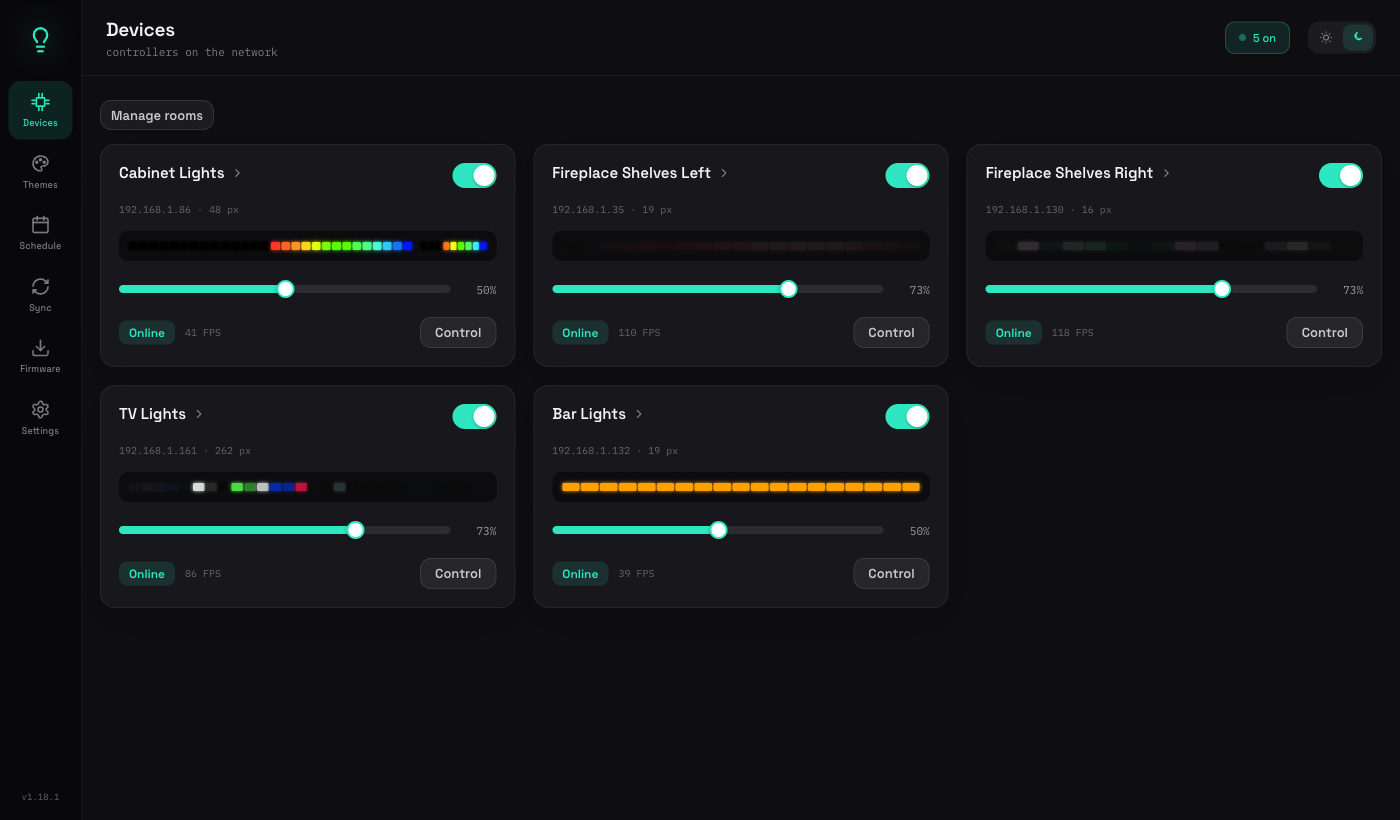
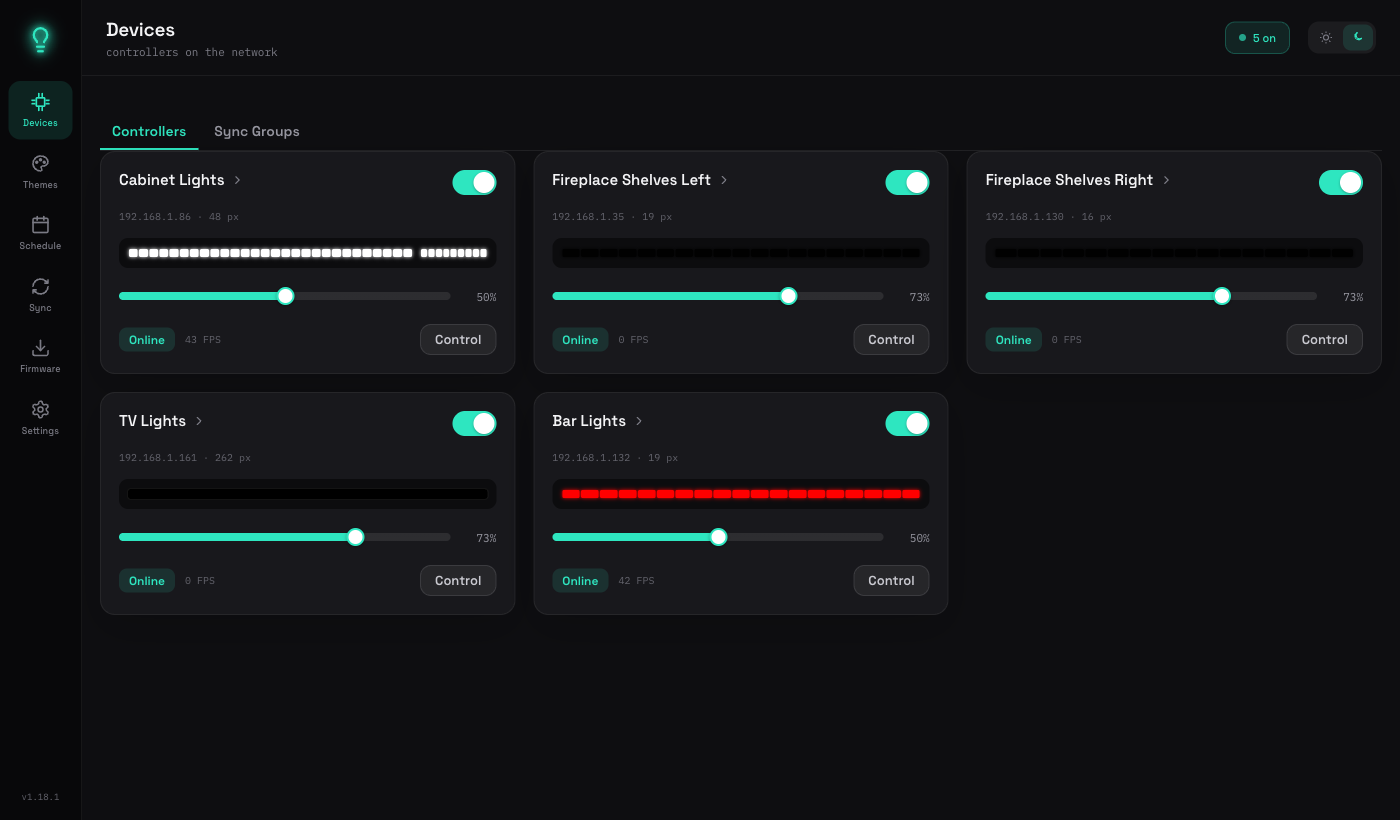
feat(devices): tabbed Controllers | Sync Groups; sync-group control (v2.3.0)
Devices now has two tabs — Controllers (a card per device) and Sync Groups,
where each *active* sync group shows as its own aggregate card (power +
brightness + Control fanned out to its members). Removes the room grouping /
Manage-rooms UI from Devices (components kept in-tree for now, just unwired).

Also:
- MasterBar status pill goes back to the plain '{N} on' / 'All off' count
  instead of showing the active sync group's name (which read as confusing).
- Lightbulb logo now genuinely glows when any controller is on — accent color,
  a soft radial halo, and a layered filament glow — and stays visible in light
  mode via the deeper-accent tokens; dull gray when all off.
- Refresh devices.png (tabbed view) + update the README Devices walkthrough.

Follow-up to the RGBW White fix in the previous commit.

diff --git a/client/src/sections/devices/DevicesSection.tsx b/client/src/sections/devices/DevicesSection.tsx
@@ -1,25 +1,25 @@
 import { useEffect, useMemo, useState } from 'react';
-import type { Controller } from '../../api/client';
+import type { Controller, Target } from '../../api/client';
 import { useLiveStatus } from '../../api/live';
-import { useControllers, useGroups } from '../../api/queries';
+import { useControllers, useSyncGroups } from '../../api/queries';
 import { ControlSurface } from '../../control/ControlSurface';
 import { Button } from '../../components/ui/Button';
 import { Skeleton } from '../../components/ui/Skeleton';
+import { Tabs } from '../../components/ui/Tabs';
 import { DeviceCard } from './DeviceCard';
 import { DeviceDetail } from './DeviceDetail';
-import { RoomGroup } from './RoomGroup';
-import { RoomsManagerModal } from './RoomsManagerModal';
-import { groupControllersByRoom } from './deviceGrouping';
+import { SyncGroupCard } from './SyncGroupCard';
 import { deviceHash, parseDevicesHash, type DeviceTab } from './route';
-import { cachedDeviceName } from '../../lib/deviceNames';
 import './devices.css';
 
 export function DevicesSection() {
   const [route, setRoute] = useState(() => parseDevicesHash(window.location.hash));
   const controllers = useControllers();
-  const groups = useGroups();
-  const [controlId, setControlId] = useState<string | null>(null);
-  const [roomsOpen, setRoomsOpen] = useState(false);
+  const syncGroups = useSyncGroups();
+  const [tab, setTab] = useState<'controllers' | 'sync'>('controllers');
+  // A single target-set drives the Control surface, so both a single device
+  // card and a whole sync group (its members) can open it.
+  const [controlTargets, setControlTargets] = useState<Target[] | null>(null);
 
   useEffect(() => {
     const onHash = () => setRoute(parseDevicesHash(window.location.hash));
@@ -34,17 +34,19 @@ export function DevicesSection() {
   );
   const live = useLiveStatus(liveIds);
 
-  const { rooms, ungrouped } = useMemo(
-    () => groupControllersByRoom(groups.data ?? [], list),
-    [groups.data, list]
-  );
-  const renderCard = (c: Controller) => (
-    <DeviceCard key={c.id} controller={c} live={live.get(c.id)} onControl={setControlId} onOpen={openDetail} />
-  );
-  // Same resolution as DeviceCard so the room manager labels controllers with
-  // their live/friendly name rather than the frozen add-time name.
-  const nameFor = (id: string) =>
-    live.get(id)?.info?.name || cachedDeviceName(id) || list.find((c) => c.id === id)?.name || id;
+  // Active sync groups surface as their own aggregate-control cards, pinned
+  // above the individual devices; members still appear as their own cards too.
+  const activeSyncGroups = useMemo(() => {
+    const byId = new Map(list.map((c) => [c.id, c]));
+    return (syncGroups.data ?? [])
+      .filter((sg) => sg.active)
+      .map((sg) => ({
+        id: sg.id,
+        name: sg.name,
+        members: sg.memberControllerIds.map((id) => byId.get(id)).filter((c): c is Controller => !!c)
+      }))
+      .filter((sg) => sg.members.length > 0);
+  }, [syncGroups.data, list]);
 
   function openDetail(controllerId: string, tab: DeviceTab = 'info') {
     window.location.hash = deviceHash(controllerId, tab);
@@ -85,9 +87,6 @@ export function DevicesSection() {
     <section className="section devices-section">
       <header className="devices-header">
         <h2>Devices</h2>
-        {list.length > 0 && (
-          <Button variant="secondary" size="sm" onClick={() => setRoomsOpen(true)}>Manage rooms</Button>
-        )}
       </header>
       {controllers.isLoading && (
         <div className="devices-grid">
@@ -96,38 +95,62 @@ export function DevicesSection() {
         </div>
       )}
       {controllers.isError && <p role="alert">Could not load controllers.</p>}
-      {!controllers.isLoading && !controllers.isError && list.length === 0 && (
-        <p className="empty-state">
-          No controllers yet — discovery adds them automatically, or add one in Settings.
-        </p>
-      )}
-      {rooms.length === 0 ? (
-        <div className="devices-grid">{list.map(renderCard)}</div>
-      ) : (
-        <div className="devices-rooms">
-          {rooms.map(({ group, controllers: members }) => (
-            <RoomGroup key={group.id} title={group.name} icon={group.icon} count={members.length}>
-              {members.map(renderCard)}
-            </RoomGroup>
-          ))}
-          {ungrouped.length > 0 && (
-            <RoomGroup title="Ungrouped" count={ungrouped.length}>
-              {ungrouped.map(renderCard)}
-            </RoomGroup>
-          )}
-        </div>
-      )}
-      <ControlSurface
-        targets={controlId ? [{ kind: 'controller', controllerId: controlId }] : []}
-        open={controlId !== null}
-        onClose={() => setControlId(null)}
+
+      <Tabs
+        label="Devices views"
+        active={tab}
+        onChange={(id) => setTab(id as 'controllers' | 'sync')}
+        tabs={[
+          { id: 'controllers', label: 'Controllers' },
+          { id: 'sync', label: 'Sync Groups' }
+        ]}
       />
-      <RoomsManagerModal
-        open={roomsOpen}
-        onClose={() => setRoomsOpen(false)}
-        groups={groups.data ?? []}
-        controllers={list}
-        nameFor={nameFor}
+
+      {tab === 'controllers' && (
+        !controllers.isLoading && !controllers.isError && list.length === 0 ? (
+          <p className="empty-state">
+            No controllers yet — discovery adds them automatically, or add one in Settings.
+          </p>
+        ) : (
+          <div className="devices-grid">
+            {list.map((c) => (
+              <DeviceCard
+                key={c.id}
+                controller={c}
+                live={live.get(c.id)}
+                onControl={(id) => setControlTargets([{ kind: 'controller', controllerId: id }])}
+                onOpen={openDetail}
+              />
+            ))}
+          </div>
+        )
+      )}
+
+      {tab === 'sync' && (
+        activeSyncGroups.length === 0 ? (
+          <p className="empty-state">
+            No active sync groups — create one and turn it on in the Sync section, and it
+            will show up here for whole-group control.
+          </p>
+        ) : (
+          <div className="devices-grid">
+            {activeSyncGroups.map((sg) => (
+              <SyncGroupCard
+                key={sg.id}
+                name={sg.name}
+                members={sg.members}
+                live={live}
+                onControl={setControlTargets}
+              />
+            ))}
+          </div>
+        )
+      )}
+
+      <ControlSurface
+        targets={controlTargets ?? []}
+        open={controlTargets !== null}
+        onClose={() => setControlTargets(null)}
       />
     </section>
   );

diff --git a/client/src/sections/devices/SyncGroupCard.tsx b/client/src/sections/devices/SyncGroupCard.tsx
@@ -1,0 +1,110 @@
+import { useMemo, useRef, useState } from 'react';
+import { applyControl, type Controller, type Target } from '../../api/client';
+import type { LiveStatusEntry } from '../../api/live';
+import { Chip } from '../../components/ui/Chip';
+import { Slider } from '../../components/ui/Slider';
+import { throttle } from '../../lib/throttle';
+import { SyncIcon } from '../../components/icons';
+import './devices.css';
+
+const BRIGHTNESS_THROTTLE_MS = 120;
+
+export interface SyncGroupCardProps {
+  name: string;
+  members: Controller[];
+  live: ReadonlyMap<string, LiveStatusEntry>;
+  onControl: (targets: Target[]) => void;
+}
+
+/**
+ * A card for an *active* sync group on the Devices page: aggregate power +
+ * brightness and a Control button, all fanned out to the group's member
+ * controllers (they move together anyway via WLED's native UDP sync).
+ */
+export function SyncGroupCard({ name, members, live, onControl }: SyncGroupCardProps) {
+  const targets: Target[] = useMemo(
+    () => members.map((c) => ({ kind: 'controller', controllerId: c.id })),
+    [members]
+  );
+
+  const entries = members.map((c) => live.get(c.id));
+  const anyOn = entries.some((e) => e?.state?.on);
+  const briVals = entries
+    .map((e) => e?.state?.bri)
+    .filter((b): b is number => typeof b === 'number');
+  const avgBri = briVals.length ? Math.round(briVals.reduce((a, b) => a + b, 0) / briVals.length) : 0;
+
+  // Optimistic override so the control feels instant; live SSE reconciles it.
+  const [override, setOverride] = useState<{ on?: boolean; bri?: number }>({});
+  const on = override.on ?? anyOn;
+  const bri = override.bri ?? avgBri;
+  const briPct = Math.round((bri / 255) * 100);
+
+  const pushBri = useRef(
+    throttle((v: number) => {
+      applyControl(targets, { bri: v }).catch(() => {});
+    }, BRIGHTNESS_THROTTLE_MS)
+  ).current;
+
+  function togglePower() {
+    const next = !on;
+    setOverride((o) => ({ ...o, on: next }));
+    applyControl(targets, { on: next }).catch(() => {});
+  }
+  function setBrightness(v: number) {
+    setOverride((o) => ({ ...o, bri: v }));
+    pushBri(v);
+  }
+
+  const memberNames = members.map((c) => live.get(c.id)?.info?.name || c.name).join(', ');
+
+  return (
+    <div className="device-card ui-card sync-card">
+      <div className="device-card-top">
+        <div className="device-card-title sync-card-title">
+          <SyncIcon className="sync-card-icon" />
+          <span className="device-card-name">{name}</span>
+          <Chip variant="accent">Synced</Chip>
+        </div>
+        <button
+          type="button"
+          className={`device-toggle${on ? ' on' : ''}`}
+          role="switch"
+          aria-checked={on}
+          aria-label={`Power for ${name}`}
+          onClick={togglePower}
+        >
+          <span className="device-toggle-knob" />
+        </button>
+      </div>
+
+      <p className="device-card-meta ui-mono">
+        {members.length} controller{members.length === 1 ? '' : 's'} · {memberNames}
+      </p>
+
+      <div className="device-card-controls">
+        <Slider
+          min={0}
+          max={255}
+          value={bri}
+          onChange={setBrightness}
+          label={`Brightness for ${name}`}
+          disabled={!on}
+        />
+        <span className="device-card-bri ui-mono">{briPct}%</span>
+      </div>
+
+      <div className="device-card-status">
+        <Chip variant={on ? 'success' : 'default'}>{on ? 'On' : 'Off'}</Chip>
+        <button
+          type="button"
+          className="device-card-open"
+          onClick={() => onControl(targets)}
+          aria-label={`Control ${name}`}
+        >
+          Control
+        </button>
+      </div>
+    </div>
+  );
+}

diff --git a/client/src/components/appshell.css b/client/src/components/appshell.css
@@ -50,19 +50,28 @@
   width: 40px;
   height: 40px;
   margin-bottom: 18px;
+  border-radius: 50%;
   color: var(--m2);
-  transition: color 0.5s ease, filter 0.5s ease;
+  transition: color 0.5s ease, background 0.5s ease;
 }
 
-/* Illuminated when ≥1 controller is on; unlit gray when all off. */
+/* Illuminated when ≥1 controller is on: accent color, a soft radial halo behind
+   the bulb, and a layered glow around the filament so it reads like a lit lamp.
+   Unlit = flat gray. Light mode inherits the deeper accent + gentler tokens, so
+   the halo/glow stay visible on the pale rail instead of washing out. */
 .sidebar-logo.lit {
   color: var(--accent);
-  filter: drop-shadow(var(--glow-accent));
+  background: radial-gradient(circle at center, var(--accent-soft), transparent 70%);
+}
+
+.sidebar-logo.lit .logo-mark {
+  filter: drop-shadow(0 0 3px var(--accent)) drop-shadow(0 0 7px var(--accent));
 }
 
 .sidebar-logo .logo-mark {
   width: 27px;
   height: 27px;
+  transition: filter 0.5s ease;
 }
 
 .sidebar-nav {

diff --git a/client/src/components/MasterBar.tsx b/client/src/components/MasterBar.tsx
@@ -1,6 +1,5 @@
 import { useMemo } from 'react';
 import type { Controller } from '../api/client';
-import { useSyncGroups } from '../api/queries';
 import type { LiveStatusEntry } from '../api/live';
 import { useTheme } from '../theme/ThemeProvider';
 
@@ -34,16 +33,16 @@ export function MasterBar({
   live: ReadonlyMap<string, LiveStatusEntry>;
 }) {
   const { theme, setTheme } = useTheme();
-  const syncGroups = useSyncGroups();
 
   const onCount = useMemo(
     () => controllers.filter((c) => live.get(c.id)?.state?.on).length,
     [controllers, live]
   );
-  const activeSync = (syncGroups.data ?? []).find((g) => g.active);
 
-  const statusText = activeSync ? activeSync.name : onCount > 0 ? `${onCount} on` : 'All off';
-  const statusActive = !!activeSync || onCount > 0;
+  // The pill is a plain fleet power read-out ("N on" / "All off"); active sync
+  // groups now surface as their own cards on the Devices page, not here.
+  const statusText = onCount > 0 ? `${onCount} on` : 'All off';
+  const statusActive = onCount > 0;
 
   return (
     <header className="master-bar">
@@ -53,7 +52,7 @@ export function MasterBar({
       </div>
       <div className="master-bar-spacer" />
 
-      <div className="master-bar-status" title={activeSync ? 'Active sync group' : `${onCount} controller(s) on`}>
+      <div className="master-bar-status" title={`${onCount} controller(s) on`}>
         <span className={`master-bar-status-dot${statusActive ? ' pulse' : ''}`} />
         <span className="master-bar-status-text">{statusText}</span>
       </div>

diff --git a/client/src/sections/devices/devices.css b/client/src/sections/devices/devices.css
@@ -123,6 +123,12 @@
 
 .device-card-open:hover { color: var(--text); border-color: var(--w14); }
 
+/* ---------- Active sync-group card ---------- */
+.devices-sync-grid { margin-bottom: 18px; }
+.sync-card { border-color: var(--accent-soft); }
+.sync-card-title { display: flex; align-items: center; gap: 8px; }
+.sync-card-icon { width: 16px; height: 16px; color: var(--accent); flex-shrink: 0; }
+
 /* ---------- Device detail ---------- */
 
 .device-detail-header {

diff --git a/README.md b/README.md
@@ -60,12 +60,11 @@ Devices:
    WiFi signal, FPS, power, uptime, stale/offline and update-available
    badges, plus a live-output strip (one swatch per segment, driven by the
    live stream) so a card shows what its lights are actually doing without
-   opening it. Cards are bucketed into collapsible **room** sections (icon +
-   name + count), with an *Ungrouped* section for the rest — a flat grid until
-   you make a room. **Manage rooms** (top of the page) creates/renames/deletes
-   rooms, picks an icon, and assigns whole controllers to them; discovered
-   controllers show up automatically, and adding one manually lives in
-   Settings. The detail page has five tabs: **Info** (the live-output
+   opening it. Two tabs split the view: **Controllers** (a card per device;
+   discovery adds them automatically, manual add lives in Settings) and **Sync
+   Groups**, where each *active* sync group appears as its own aggregate card —
+   power, brightness, and Control fanned out to its member controllers so the
+   whole synced set moves together. The detail page has five tabs: **Info** (the live-output
    strip shown automatically, identity, network, uptime, heap, filesystem,
    LED counts, usermods, an opt-in "Open native live view" embed of the
    device's own `/liveview` page, reboot with confirm, open-native-UI),